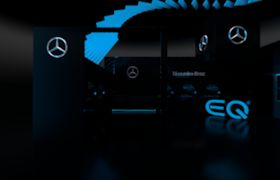
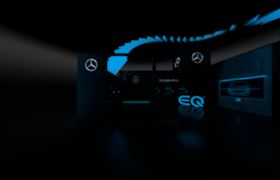
d

diff --git a/skin.js b/skin.js
@@ -1,7 +1,7 @@
 // Garden Gnome Software - Skin
 // Pano2VR 6.1.10/18007
 // Filename: simplex_Merc1.ggsk
-// Generated 2021-02-09T17:41:15
+// Generated 2021-02-09T17:43:21
 
 function pano2vrSkin(player,base) {
 	player.addVariable('opt_hotspot_preview', 2, true);
@@ -11399,14 +11399,13 @@ function pano2vrSkin(player,base) {
 			me._thumbnail_cloner_mobile.ggUpdate();
 			if (
 				(
-					((player.getViewerSize().width <= 400)) || 
-					((player.getHasTouch() == true))
+					((player.getViewerSize().width >= 700))
 				)
 			) {
 				var params = {
 							   pan: 0,
 							   tilt: 0,
-							   fov: 100,
+							   fov: 70,
 							   projection: -1,
 							   timingFunction: 3,
 							   speed: 0
